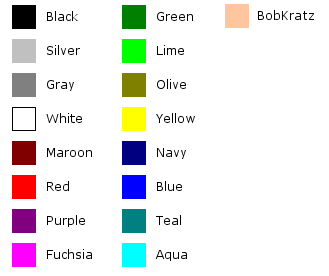
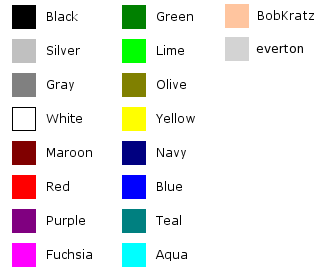
2004-07-20  Bob Doan  <bdoan@sicompos.com> 	* autogen.sh: take out warnings by default 	* configure.in: bump version to offical stable release 	* doc/IMAGES/namedcolors.png: added everton as a color 	* libsrc/util.c: likewise 	* NEWS: OFFICAL STABLE Release time!!!!!

Changed region(s): [[0.6687, 0.1159, 0.9422, 0.2319]]

diff --git a/libsrc/util.c b/libsrc/util.c
@@ -307,6 +307,8 @@ gchar *colornames(char *str) {
 		return "0x00FFFF";
 	if(!strcasecmp(str, "bobkratz")) //Easter egg.. a pink color to match the shirts he wears
 		return "0xffc59f";
+	if(!strcasecmp(str, "everton")) //Easter egg.. an ideal background color
+		return "0xd3d3d3";
 	return str;
 }
 
